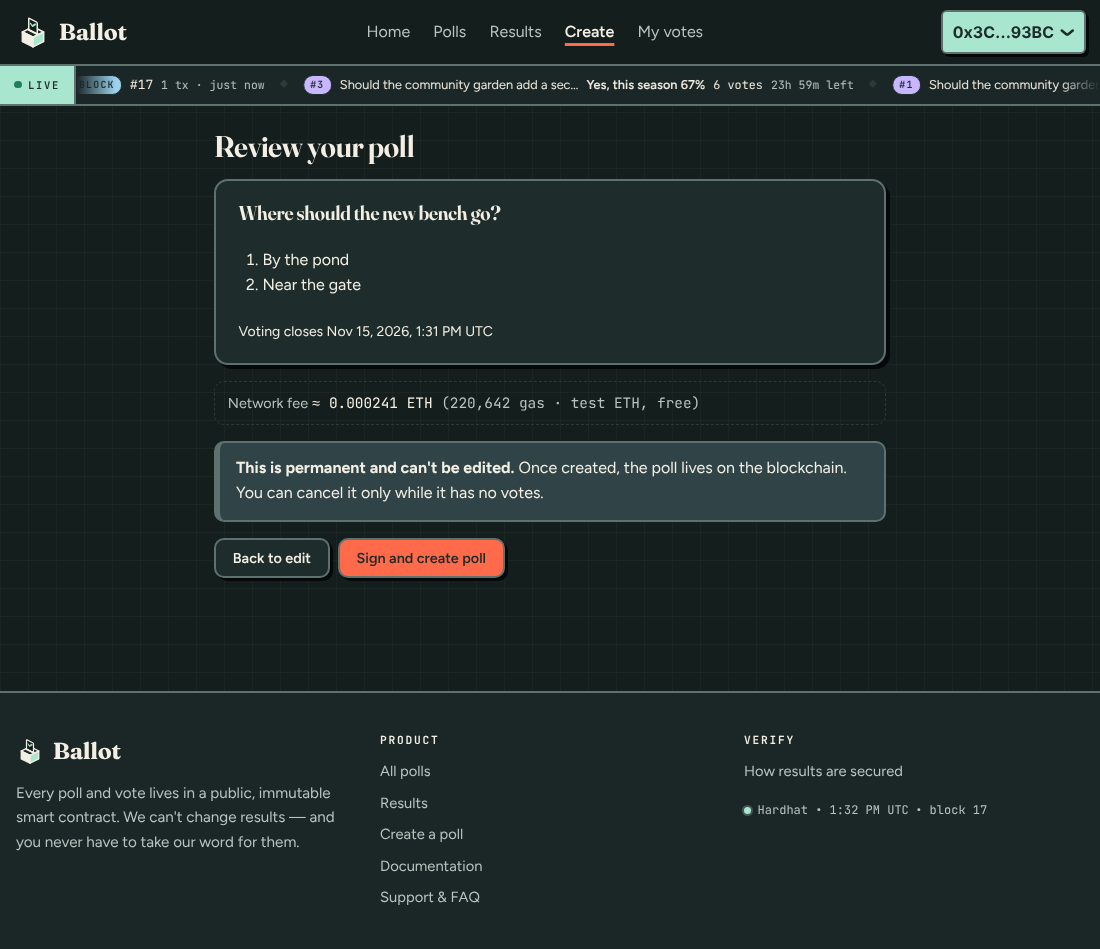
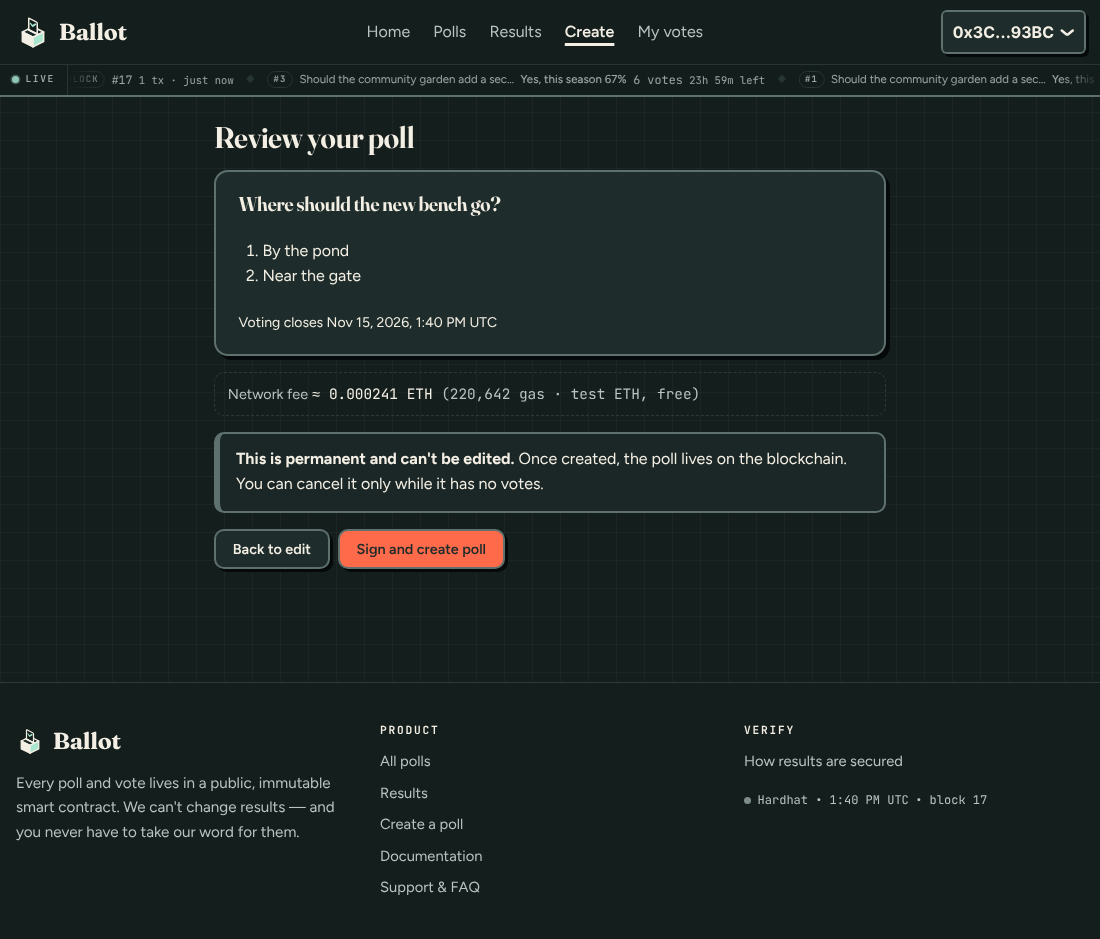
style: calm pass — colour only for primary actions, live, verified and status
Muted, smaller ticker with one green live dot; neutral pills except open (green),
closing soon (amber) and closed/failed (red); one quiet icon treatment on feature
and security cards; dark neutral receipt with a single verified accent; plain FAQ
and footer; ink Connect Wallet button. E2E 51/51.

Claude-Session: https://claude.ai/code/session_011PYWN6V5q9MCynC1YPahCT

diff --git a/frontend/src/index.css b/frontend/src/index.css
@@ -989,3 +989,93 @@ a.tk-item:hover, a.tk-item:focus-visible { background: color-mix(in srgb, var(--
 .empty-icon { background: var(--butter); color: var(--sticker-ink); border: 2px solid var(--edge); }
 .site-footer { background: var(--paper-2); border-top: 2px solid var(--edge); }
 .toast { background: var(--ink); color: var(--paper); border: 2px solid var(--edge); }
+
+/* =====================================================================
+   Calm layer (owner feedback): colour only for primary buttons, one live
+   indicator, the verified/success state, and meaningful status (green open,
+   amber closing soon, red failed/closed). Everything else white/gray/black.
+   ===================================================================== */
+
+/* 1. Live ticker — small, muted, quiet; one green dot */
+.ticker { background: var(--paper); border-top: 1px solid var(--line); font-size: .72rem; opacity: .85; /* .85 keeps muted text ≥ 4.5:1 */ transition: opacity .2s ease; }
+.ticker:hover, .ticker:focus-within { opacity: 1; }
+.tk-live { background: transparent; color: var(--muted); border-right: 1px solid var(--line); font-size: .6rem; padding: 0 .75rem; }
+.tk-live .pulse-dot { background: var(--ok); }
+.tk-item { padding: .35rem .75rem; gap: .4rem; color: var(--muted); }
+.tk-tag, .tk-tag-poll, .tk-tag-vote { background: transparent; color: var(--muted); border: 1px solid var(--line); font-size: .56rem; padding: .18rem .35rem; }
+.tk-lead { font-weight: 500; color: var(--muted); }
+.tk-up, .tk-delta { color: var(--muted); font-weight: 400; }
+.tk-muted { font-size: .66rem; }
+.tk-sep { color: var(--line); }
+
+/* 2. Pills and badges — neutral by default; colour only for meaningful state */
+.label { background: transparent; color: var(--muted); border: 1px solid var(--line); }
+.label-open { background: color-mix(in srgb, var(--ok) 12%, var(--card)); color: var(--ok); border-color: color-mix(in srgb, var(--ok) 45%, transparent); }
+.label-closing-soon { background: color-mix(in srgb, var(--butter) 40%, var(--card)); color: var(--warn); border-color: color-mix(in srgb, var(--butter) 80%, var(--ink) 20%); }
+.label-closed, .label-cancelled { background: color-mix(in srgb, var(--bad) 9%, var(--card)); color: var(--danger); border-color: color-mix(in srgb, var(--bad) 40%, transparent); }
+.label-stamp { background: transparent; color: var(--ink); border: 1px solid var(--edge); font-weight: 700; }
+.countdown-soon { background: color-mix(in srgb, var(--butter) 40%, var(--card)); color: var(--warn); border: 1px solid color-mix(in srgb, var(--butter) 80%, var(--ink) 20%); }
+.trust-chip { background: transparent; border: 1px solid var(--line); box-shadow: none; color: var(--muted); }
+.trust-chip svg, .trust-chip:nth-child(n) svg { background: transparent; stroke: var(--muted); padding: 0; }
+.live-badge { background: transparent; color: var(--muted); border: 1px solid var(--line); box-shadow: none; }
+.live-badge .pulse-dot { background: var(--faint); animation: none; }
+.note-kind, .note-kind-vote, .note-kind-created, .note-kind-closed, .note-kind-cancelled { background: transparent; color: var(--muted); border: 1px solid var(--line); }
+.step-card .step-n { background: transparent; color: var(--faint); border: 1px solid var(--line); }
+.kicker { color: var(--muted); }
+.nav-link-active { text-decoration-color: var(--ink); }
+.tab[aria-selected="true"] { border-bottom-color: var(--ink); }
+/* "Specimen" — a subtle outlined label, never coloured */
+.hero-receipt .stamp-hero { color: var(--muted); border: 1px solid currentColor; border-style: solid; font-size: .62rem; padding: .3rem .45rem; transform: none; }
+[data-testid="latest-receipt-specimen"] .stamp-hero { opacity: .8; }
+
+/* 3. Feature / security cards — one quiet icon treatment, identical card backgrounds */
+.icon-badge, .grid-3 > li:nth-child(n) .icon-badge, .grid-2 > li:nth-child(n) .icon-badge {
+  background: var(--paper-2); color: var(--ink); border: 1px solid var(--line); box-shadow: none;
+}
+.icon-badge svg { opacity: .8; }
+.proof-icon { stroke: var(--muted); }
+.empty-icon { background: var(--paper-2); color: var(--muted); border: 1px solid var(--line); }
+.note { background: var(--card); color: var(--ink); }
+.note .note-meta, .note .note-time { color: var(--muted); }
+@media (prefers-color-scheme: dark) { .note { background: var(--card); } }
+.notice { background: var(--paper-2); }
+.hint[data-testid="no-wallet"] { background: var(--paper-2); color: var(--ink); }
+.hint[data-testid="no-wallet"] .link { color: var(--ink); }
+.live-notice { background: var(--card); color: var(--ink); box-shadow: var(--hard-sm); }
+.live-notice .muted { color: var(--muted); }
+.option-row:has(input:checked) { background: var(--paper-2); color: var(--ink); }
+.option-row input { accent-color: var(--ink); }
+.jstep-done .jnode { background: var(--ink); color: var(--paper); }
+.btn-secondary:hover:not(:disabled), .btn-chip:hover, .icon-btn:hover { background: var(--paper-2); color: var(--ink); }
+.hl { background: none; padding: 0; }
+.kpi:nth-child(1) .kpi-value { box-shadow: none; }
+.ranked-fill { background: var(--ink); }
+.chart-line, .chart-dot { stroke: var(--ink); }
+.chart-dot { fill: var(--ink); stroke: var(--card); }
+.chart-area { fill: var(--ink); opacity: .07; }
+@media (prefers-color-scheme: dark) { .bar-fill, .ranked-fill { background: var(--muted); } }
+
+/* 4. Receipt — a dark, neutral proof artifact; one subtle accent for "verified" */
+.receipt, .hero-receipt { background: #17211F; color: #E9E4D9; box-shadow: none; border: 0; }
+.receipt .receipt-grid dt, .hero-receipt .receipt-grid dt { color: #93A09D; }
+.receipt-title { color: #C9C3B7; }
+.receipt .link, .hero-receipt .link { color: #E9E4D9; text-decoration-color: #5E6E6B; }
+.receipt .copy-btn { color: #93A09D; }
+.receipt-foot { border-top-color: #33413F; color: #93A09D; }
+.receipt .stamp, .hero-receipt [data-testid] .stamp, [data-testid="latest-receipt"] .stamp-hero {
+  color: var(--mint); border: 1px solid color-mix(in srgb, var(--mint) 60%, transparent); border-style: solid;
+  font-size: .62rem; padding: .3rem .45rem; transform: none;
+}
+@media (prefers-color-scheme: dark) {
+  .receipt, .hero-receipt { background: #0C1312; color: #E9E4D9; }
+  .receipt .link, .hero-receipt .link { color: #E9E4D9; }
+}
+
+/* 5. FAQ + footer — plain text, no coloured hovers or dots */
+.faq-item summary:hover { background: transparent; color: var(--ink); text-decoration: underline; text-underline-offset: 4px; }
+.faq-chevron { color: var(--faint); }
+.site-footer { background: var(--paper); border-top: 1px solid var(--line); }
+.footer-col a { color: var(--muted); }
+.footer-col a:hover { color: var(--ink); }
+.footer-h { color: var(--ink); }
+.network-status .pulse-dot { background: var(--faint); animation: none; }

diff --git a/frontend/src/main.tsx b/frontend/src/main.tsx
@@ -37,12 +37,12 @@ function paperTheme(base: ReturnType<typeof lightTheme>) {
     ...base,
     colors: {
       ...base.colors,
-      // RainbowKit paints "Connect Wallet" (and its modal buttons) with the accent: Field Guide mint.
-      accentColor: "var(--mint)",
-      accentColorForeground: "var(--sticker-ink)",
+      // "Connect Wallet" is a calm ink button — colour is reserved for the primary actions (tomato).
+      accentColor: "var(--ink)",
+      accentColorForeground: "var(--paper)",
       // Field Guide: the "Connect wallet" button is a mint sticker with ink text.
-      connectButtonBackground: "var(--mint)",
-      connectButtonText: "var(--sticker-ink)",
+      connectButtonBackground: "var(--card)",
+      connectButtonText: "var(--ink)",
       connectButtonInnerBackground: "var(--card)",
     },
     shadows: { ...base.shadows, connectButton: "0 0 0 2px var(--edge), 3px 3px 0 2px var(--shadow-color)", dialog: "none", profileDetailsAction: "none", selectedOption: "none", selectedWallet: "none", walletLogo: "none" },

diff --git a/docs/BUILD_LOG.md b/docs/BUILD_LOG.md
@@ -540,3 +540,23 @@ Test/build results (actually observed): vitest 38 passed; tsc OK; oxlint 0 new; 
   chart palette validator: PASS light + dark.
 Commit made: feat(design): apply the Web3 Field Guide palette across the app
 ```
+
+---
+
+## Calm pass: reduce colour (owner feedback)
+
+### Decisions
+- **Colour now only on**: tomato primary buttons; one green "live" dot (ticker); the verified state (vote seal, mint "Recorded" stamp on the dark receipt); meaningful status (green Open, amber Closing soon, red Closed/Cancelled/failed).
+- **Ticker**: smaller, muted, 85% opacity (72% was tried but dropped muted text to 3.5:1; 85% keeps 4.68:1), neutral outlined tags, no coloured counts.
+- **Neutralised**: trust chips, step numbers, section kickers, "LIVE" activity badge, activity notes (now plain cards), icon badges (one quiet treatment), empty-state icons, notices, no-wallet note, option selection, journey steps, nav/tab underlines, hero highlighter, KPI highlight, single-series charts (ink/gray), FAQ hover, footer links and dot.
+- **"Connect Wallet" is now an ink button**, so tomato is reserved for the primary actions.
+- **Receipt = dark neutral proof artifact** (`#17211F`, muted labels), with one subtle mint accent on the "Recorded" stamp; "Specimen" is a gray outlined label.
+- Kept categorical colour on the results part-to-whole bars — there colour identifies the options (CVD-validated) and every figure is also written as text.
+
+```
+STATUS REPORT
+Done: colour reduced in ticker, pills/badges, feature/security cards, receipt, FAQ/footer; wallet button neutral.
+Files created/changed (paths): frontend/src/index.css (calm layer), frontend/src/main.tsx, CLAUDE.md, docs/screenshots/*
+Test/build results (actually observed): vitest 38 passed; tsc OK; oxlint 0 new; E2E 51 passed (1.6m); ticker text 4.68:1.
+Commit made: style: calm pass — colour only for primary actions, live, verified and status
+```

diff --git a/CLAUDE.md b/CLAUDE.md
@@ -234,6 +234,10 @@ The feel: a modern polling station. Paper, ink, stamps, receipts. Calm, trustwor
   used sparingly: mint `#A8E6CF` / mint-deep `#1D7F5C`, tomato `#FF6B4A` (main buttons) / tomato-soft
   `#FFD9CF`, butter `#FFD66B` / butter-soft `#FFF1C7`, lilac `#C8B6FF`, sky `#9ED3F0`; status ok `#1D7F5C`,
   bad `#D9432A`. Text-only AA steps: danger `#B43722`, focus ring `#E05E41`. Dark mode is derived and AA-checked.
+- Colour discipline (owner feedback): colour only for primary buttons (tomato), ONE live indicator (green
+  dot in the ticker), the verified/success state, and meaningful status (green open, amber closing soon,
+  red failed/closed). Cards, tags, ticker, hashes, icons, kickers, FAQ and footer stay white/gray/black.
+  Categorical colour remains only where it identifies data (results part-to-whole bars).
 - Type: Fraunces for headings, Figtree for body, JetBrains Mono for hashes/addresses/numbers.
   Tabular numerals for vote counts.
 - Motifs: perforated/dashed edges on the ballot receipt, a subtle stamp animation when a vote
